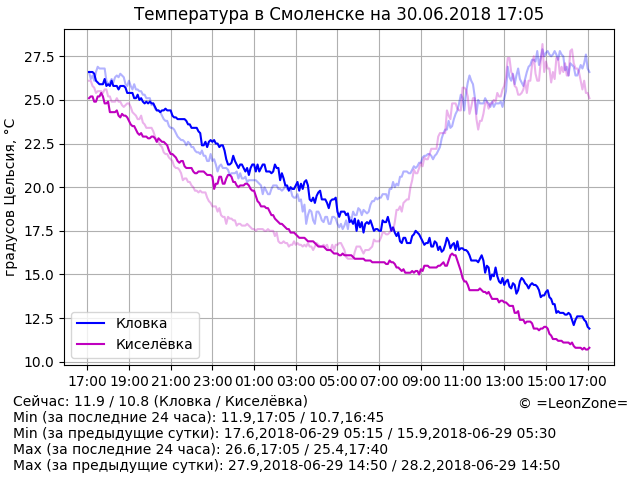
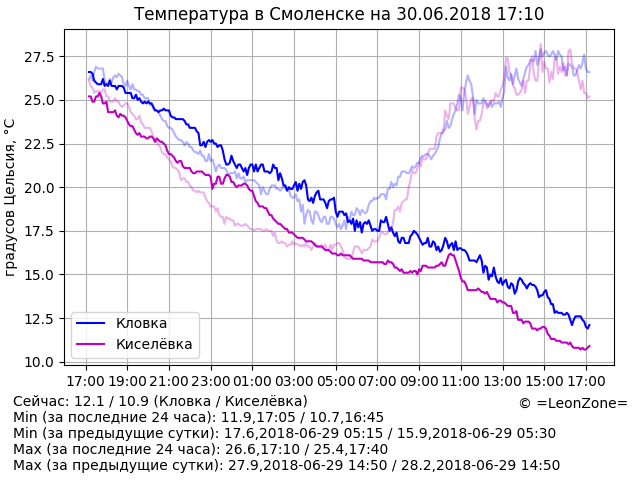
Update data

diff --git a/index.html b/index.html
@@ -14,10 +14,10 @@
 	<p align="center"><script>document.write("<img src=\"graph.png?rnd="+Math.random()+"\" alt=\"Температура в Смоленске\" align=\"middle\" width=\"640\" height=\"480\" />")</script>
 	<p hidden="true">
 <!-- textinfo -->
-Сейчас: 11.9 / 10.8 (Кловка / Киселёвка)
+Сейчас: 12.1 / 10.9 (Кловка / Киселёвка)
 Min (за последние 24 часа): 11.9,17:05 / 10.7,16:45
 Min (за предыдущие сутки): 17.6,2018-06-29 05:15 / 15.9,2018-06-29 05:30
-Max (за последние 24 часа): 26.6,17:05 / 25.4,17:40
+Max (за последние 24 часа): 26.6,17:10 / 25.4,17:40
 Max (за предыдущие сутки): 27.9,2018-06-29 14:50 / 28.2,2018-06-29 14:50
 <!-- /textinfo -->
 	<footer hidden="true">© =LeonZone=</footer>
